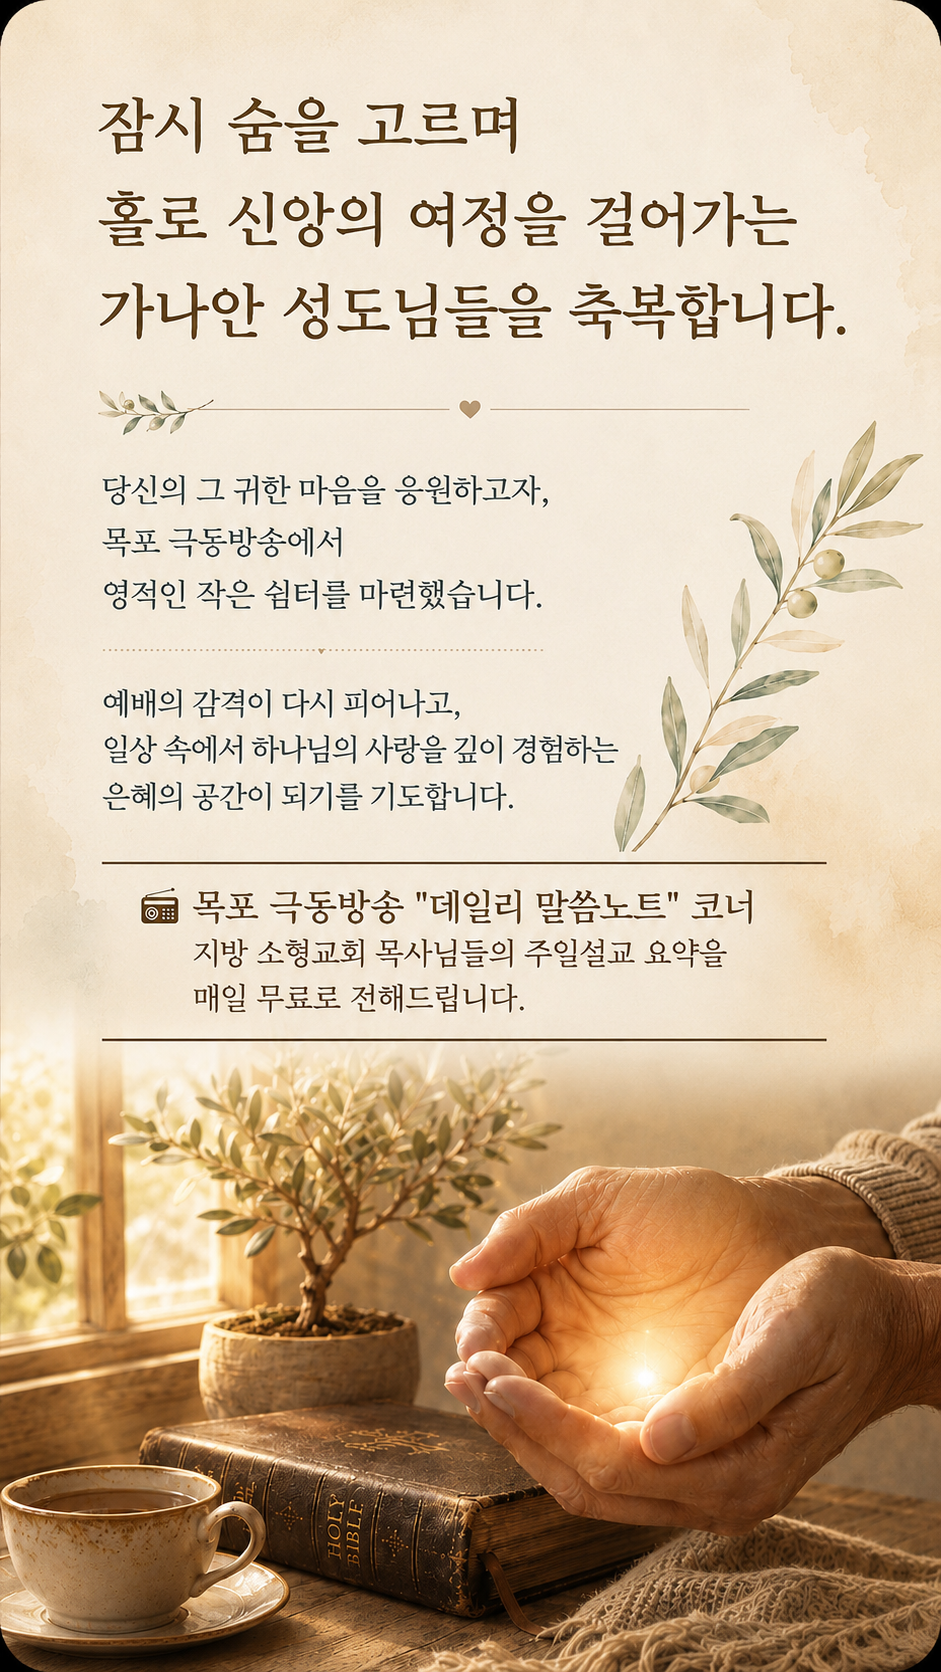
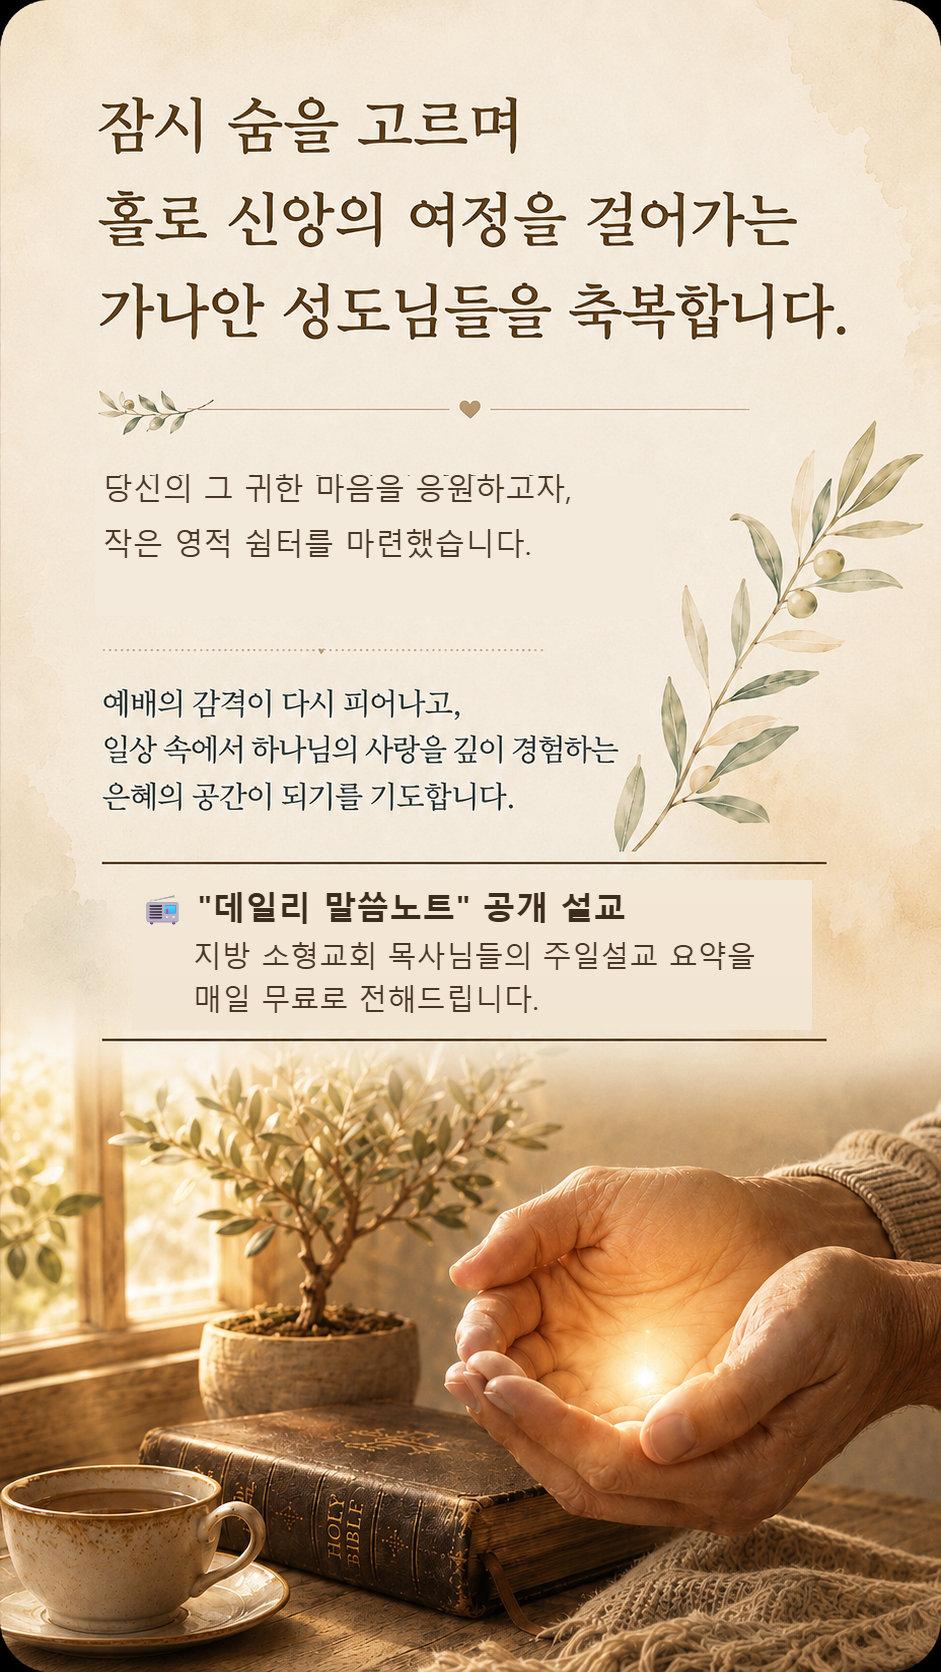
feat: 극동방송 표기 삭제(데일리 말씀노트 공개 설교로 변경), 버전 2.2.2+15

Changed region(s): [[0.1541, 0.5287, 0.8013, 0.622], [0.0925, 0.2799, 0.5855, 0.3732], [0.8321, 0.5287, 0.8629, 0.5909]]

diff --git a/lib/screens/today/today_screen.dart b/lib/screens/today/today_screen.dart
@@ -142,7 +142,7 @@ class _TodayScreenState extends State<TodayScreen> {
           Row(children: [
             Icon(Icons.radio, size: 16, color: AppTheme.primary),
             SizedBox(width: 6),
-            Text('극동방송 × 데일리 말씀노트 코너',
+            Text('데일리 말씀노트 공개 설교',
                 style: TextStyle(
                     fontSize: 13,
                     fontWeight: FontWeight.w600,
@@ -150,7 +150,7 @@ class _TodayScreenState extends State<TodayScreen> {
           ]),
           SizedBox(height: 8),
           Text(
-            '극동방송에 방영 확정된 설교를 AI가 요약해 매일 전달합니다.\n'
+            '데일리 말씀노트에 공개된 설교를 AI가 요약해 매일 전달합니다.\n'
             '강요도 없고, 권위도 없어요. 그냥 오늘 말씀 한 편.',
             style: TextStyle(
                 fontSize: 13, color: AppTheme.textMid, height: 1.6),
@@ -175,7 +175,7 @@ class _TodayScreenState extends State<TodayScreen> {
             Text(
               '당신이 교회를 떠난 이유를 묻지 않겠습니다.\n'
               '그냥 오늘 이 말씀 하나 읽어주세요.\n\n'
-              '극동방송 데일리 말씀노트 코너에서 방영 확정된\n'
+              '데일리 말씀노트에 공개된\n'
               '설교를 AI가 요약하여 매일 제공합니다.',
               style: TextStyle(color: AppTheme.textMid, height: 1.7),
             ),

diff --git a/lib/widgets/today_sermon_card.dart b/lib/widgets/today_sermon_card.dart
@@ -39,7 +39,7 @@ class TodaySermonCard extends StatelessWidget {
               children: [
                 const Icon(Icons.radio, size: 14, color: AppTheme.primary),
                 const SizedBox(width: 6),
-                const Text('극동방송 데일리 말씀노트',
+                const Text('데일리 말씀노트 공개 설교',
                     style: TextStyle(
                         fontSize: 12,
                         fontWeight: FontWeight.w600,
@@ -151,7 +151,7 @@ class TodaySermonCard extends StatelessWidget {
     Share.share(
       '📖 ${s.title}\n${s.bibleVerse} · ${s.pastor}\n\n'
       '${s.summary}\n\n✏ 오늘의 적용\n${s.application}\n\n'
-      '— 극동방송 데일리 말씀노트 코너',
+      '— AI 가나안교회 · 데일리 말씀노트 공개 설교',
     );
   }
 }

diff --git a/lib/models/public_sermon_model.dart b/lib/models/public_sermon_model.dart
@@ -49,7 +49,7 @@ class PublicSermonModel {
           ? Map<String, String>.from(d['devotionals'] as Map)
           : const {},
       broadcastDate: (d['broadcastDate'] as Timestamp?)?.toDate() ?? DateTime.now(),
-      source:        d['source']        ?? '극동방송 데일리 말씀노트 코너',
+      source:        d['source']        ?? '데일리 말씀노트 공개 설교',
       createdAt:     (d['createdAt']    as Timestamp?)?.toDate() ?? DateTime.now(),
       audioUrl:      d['audioUrl']      as String?,
     );

diff --git a/lib/services/sermon_service.dart b/lib/services/sermon_service.dart
@@ -132,7 +132,7 @@ class SermonService {
         application: '오늘 가장 두렵고 걱정되는 것 하나를 하나님께 내어놓으세요. '
             '말로 기도하기 어려우면 마음속으로만 해도 충분합니다.',
         broadcastDate: date,
-        source: '극동방송 데일리 말씀노트 코너',
+        source: '데일리 말씀노트 공개 설교',
         createdAt: date,
       );
     });
